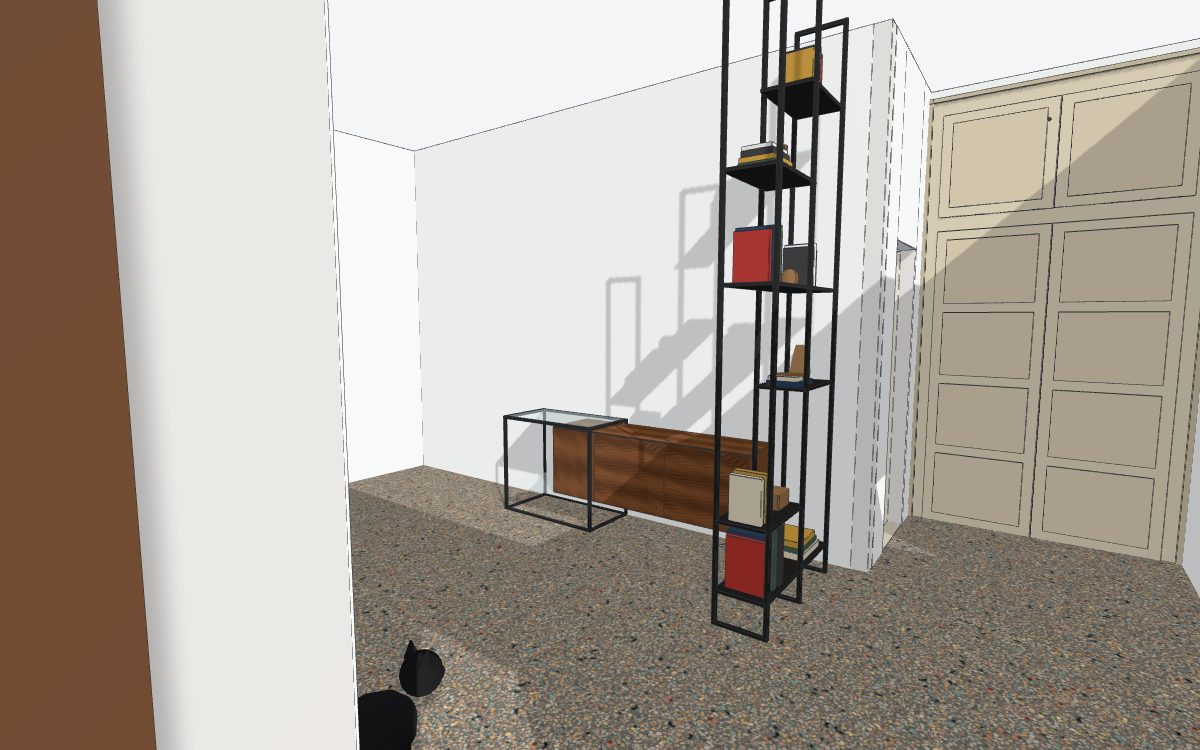
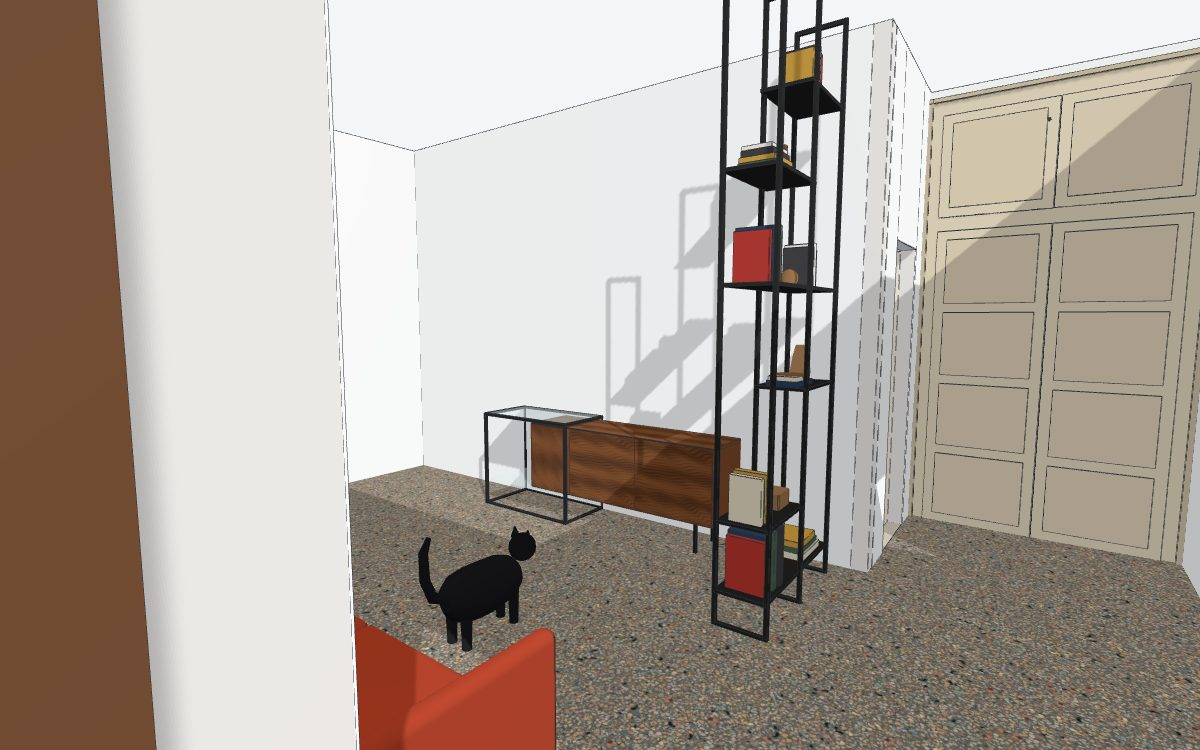
Add the Söderhamn sofa and the La Redoute sofa bed (key L opens it); Save positions also saves the active groups
Claude-Session: https://claude.ai/code/session_017Czcnh6xzZxgGSwco7M1Pu

Changed region(s): [[0.2775, 0.5213, 0.5242, 1.0], [0.6167, 0.5827, 0.6475, 0.644], [0.555, 0.7053, 0.5858, 0.736]]

diff --git a/public/viewer.html b/public/viewer.html
@@ -409,10 +409,14 @@ function moveKey(item) {
 const MV_STORE = 'moved:' + location.pathname;
 const moved = new Map();                                           // moveKey -> [dx, dy] inches
 let savedMoved = null;                                             // the published moved.json, as a JSON string of sorted entries
+let fileGroups = null, savedGroups = null;                         // moved.json "_groups": the groups saved with 'Save positions' (they replace the scene's defaults); savedGroups = their sorted JSON
+const liveGroups = () => JSON.stringify([...enabledGroups].sort());
 const mvJSON = m => JSON.stringify(Object.fromEntries([...m].map(([k, v]) => [k, v.map(x => Math.round(x * 100) / 100)]).sort((a, b) => a[0] < b[0] ? -1 : 1)), null, 1);
 async function loadMoved() {
   let file = {};
   try { const r = await fetch('moved.json?t=' + Date.now(), { cache: 'no-store' }); if (r.ok) file = await r.json(); } catch (e) {}
+  if (Array.isArray(file._groups)) fileGroups = file._groups;
+  delete file._groups;
   savedMoved = mvJSON(new Map(Object.entries(file)));
   let draft = null;
   try { draft = JSON.parse(localStorage.getItem(MV_STORE)); } catch (e) {}
@@ -441,7 +445,7 @@ function undoMove(back = true) {
 const SAVE_REPO = location.hostname.endsWith('.github.io') && [location.hostname.split('.')[0], location.pathname.split('/')[1]];   // owner, repo of a GitHub Pages site
 function showSave() {
   const b = document.getElementById('mvsave');
-  if (b) b.hidden = !SAVE_REPO || savedMoved === null || mvJSON(moved) === savedMoved;
+  if (b) b.hidden = !SAVE_REPO || savedMoved === null || (mvJSON(moved) === savedMoved && (savedGroups === null || liveGroups() === savedGroups));
   const u = document.getElementById('mvundo');
   if (u) u.disabled = !mvUndo.length;
   const r = document.getElementById('mvredo');
@@ -455,7 +459,8 @@ async function publishMoved() {
   if (!tok) return;
   const api = `https://api.github.com/repos/${owner}/${repo}/contents/projects/${id}/moved.json`;
   const h = { Authorization: 'Bearer ' + tok.trim(), Accept: 'application/vnd.github+json' };
-  const btn = document.getElementById('mvsave'), body = mvJSON(moved) + '\n';
+  const btn = document.getElementById('mvsave'), groupsNow = [...enabledGroups].sort();
+  const body = JSON.stringify(Object.assign(JSON.parse(mvJSON(moved)), { _groups: groupsNow }), null, 1) + '\n';   // positions + the groups switched on now
   btn.disabled = true;
   try {
     const cur = await fetch(api + '?ref=main', { headers: h });
@@ -465,7 +470,7 @@ async function publishMoved() {
       content: btoa(String.fromCharCode(...new TextEncoder().encode(body))) }) });
     if (!r.ok) throw new Error(String(r.status));
     try { localStorage.setItem('ghToken', tok.trim()); } catch (e) {}
-    savedMoved = mvJSON(moved);
+    savedMoved = mvJSON(moved); savedGroups = JSON.stringify(groupsNow);
     showSave();
     alert(t('v.mvsave.ok'));
   } catch (e) {
@@ -552,7 +557,12 @@ async function load() {
     const res = await fetch('scene.json?t=' + Date.now(), { cache: 'no-store' });
     const data = await res.json();
     normalizeRemoved(data);
-    if (!groupsInit) { groupsInit = true; if (!new URLSearchParams(location.search).has('g')) for (const g of data.groups || []) if (g.on) enabledGroups.add(g.id); }   // default-on groups ("on": true in scene.json) only when the URL has no ?g
+    if (!groupsInit) {                                                 // first load: groups saved with 'Save positions' (moved.json "_groups"), else the scene's defaults ("on": true); a ?g in the URL wins
+      groupsInit = true;
+      const start = fileGroups || (data.groups || []).filter(g => g.on).map(g => g.id);
+      if (!new URLSearchParams(location.search).has('g')) for (const id of start) enabledGroups.add(id);
+      savedGroups = JSON.stringify([...start].sort()); showSave();
+    }   // default-on groups ("on": true in scene.json) only when the URL has no ?g
     current = data;
     build(data);
     if (firstLoad) { firstLoad = false; applyInitialView(data); if (new URLSearchParams(location.search).has('fp')) enterFP(); if (new URLSearchParams(location.search).has('rt')) rtOn(); if (new URLSearchParams(location.search).has('ao')) aoOn(); }   // later reloads keep your orbit
@@ -1004,7 +1014,7 @@ function refreshDims() {
 const groupsEl = document.getElementById('groups'), gbtn = document.getElementById('gbtn');
 function computeGroupDefs(data) {
   const defs = new Map();
-  for (const g of data.groups || []) defs.set(g.id, { id: g.id, label: g.label || g.id, cat: g.cat || t('g.other'), variant: g.variant || null, skipAll: !!g.skipAll });
+  for (const g of data.groups || []) defs.set(g.id, { id: g.id, label: g.label || g.id, cat: g.cat || t('g.other'), variant: g.variant || null, skipAll: !!g.skipAll, alt: g.alt || null });
   for (const it of data.items) for (const id of [].concat(it.g || [])) if (!defs.has(id)) defs.set(id, { id, label: id, cat: t('g.other'), variant: null });
   for (const L of data.lights || []) for (const id of [].concat(L.g || [])) if (!defs.has(id)) defs.set(id, { id, label: id, cat: t('g.other'), variant: null });   // a light's group needs a checkbox too
   return [...defs.values()];
@@ -1030,6 +1040,7 @@ function groupsChanged() {
   selected = null;
   if (current) { build(current); refreshDims(); }
   renderGroups(current);
+  showSave();
 }
 let collapsedCats = new Set();                            // categories folded in the Groups panel (remembered per browser)
 try { collapsedCats = new Set(JSON.parse(localStorage.getItem('collapsedCats') || '[]')); } catch (e) {}
@@ -1188,6 +1199,20 @@ const endDrag = () => { clearTimeout(mvTimer); mvTimer = null; if (drag) {
 renderer.domElement.addEventListener('pointerup', endDrag);
 renderer.domElement.addEventListener('pointercancel', endDrag);
 addEventListener('keydown', e => { if (e.key === 'Escape' && mvKey) setMv(null); });
+// Key L: the selected piece (double click / long press, or a click that dimensions it) switches to its alternative
+// state: a group with "alt": "<other group>" (e.g. a sofa bed closed <-> open). Both states share the item path and
+// first word, so they share the moved offset and stay selected.
+function toggleAlt() {
+  if (!current) return;
+  const names = new Set(selected ? [selected] : []);
+  if (mvKey) for (const o of model.children) if (o.isMesh && o.userData.mv === mvKey) names.add(o.name);
+  const it = current.items.find(i => i.g && names.has(i.n));
+  const def = it && [].concat(it.g).map(id => groupDefs.find(d => d.id === id)).find(d => d && d.alt && enabledGroups.has(d.id));
+  if (!def) return;
+  enabledGroups.delete(def.id);
+  setGroup(def.alt, true);
+  setMv(moveKey(it));
+}
 document.getElementById('mvsave').onclick = publishMoved;
 document.getElementById('mvundo').onclick = () => undoMove(true);
 document.getElementById('mvredo').onclick = () => undoMove(false);
@@ -1353,6 +1378,7 @@ addEventListener('keydown', e => {
   if (e.key === 'p' || e.key === 'P') return document.getElementById('snap').click();
   if (e.key === 'u' || e.key === 'U') return document.getElementById('unit').click();
   if (e.key === 'g' || e.key === 'G') return gbtn.click();
+  if (e.key === 'l' || e.key === 'L') return toggleAlt();
   const i = Number(e.key) - 1;
   if (i >= 0 && i < PRESETS.length && !e.metaKey && !e.ctrlKey) runPreset(i);
 });

diff --git a/projects/casa-poggi/house.js b/projects/casa-poggi/house.js
@@ -3,7 +3,7 @@
 // Source: floor plan PDF "Planimetria_Casa_Poggi_Milano_modificata" (stato di fatto). "measured" = printed on the drawing, "estimate" = guessed.
 // Basic shell only: walls, openings, floor, balconies. No furniture, no materials yet (neutral colours).
 const path = require('path');
-const kit = require('../../scripts/scene-kit').createScene({ defaultOn: ['porte', 'armadio', 'porta-bagno', 'pittura', 'condizionatore', 'split-camera', 'lampada-terra', 'gatto', 'libreria', 'credenza-zoom', 'porta-camera', 'pavimento-terrazzo'] });
+const kit = require('../../scripts/scene-kit').createScene({ defaultOn: ['porte', 'armadio', 'porta-bagno', 'pittura', 'condizionatore', 'split-camera', 'lampada-terra', 'gatto', 'libreria', 'divano-soderhamn', 'credenza-zoom', 'porta-camera', 'pavimento-terrazzo'] });
 const { box, wall, slab, tube, rbox, group, defGroup, light } = kit;
 
 // ---------- dimensions (cm) ----------
@@ -328,6 +328,62 @@ const balcony = (n, x0, x1, y0, y1, side) => {
   const WT = { url: 'textures/noce-venato.jpg', tile: kit.inch(60) };
   kit.items.filter(i => /Credenza_Mobile_(Anta|Montante|Corpo)/.test(i.n)).forEach(i => { i.tex = { ...WT, face: '-x' }; });
   kit.items.filter(i => /Credenza_Mobile_Top/.test(i.n)).forEach(i => { i.tex = { ...WT, face: '+z' }; });
+}
+
+// ---------- sofas on the soggiorno west wall (back against the wall, centred on the solid stretch of wall) ----------
+// local frame: u along the wall (world y = Y0 + u), v from the wall face (world x = v); variant 'divano' = one sofa at a time
+{ const WALL0 = YS0, WALL1 = YK0 - TK, YC = (WALL0 + WALL1) / 2;
+  const sofa = (Y0) => ({
+    B: (n, c, u0, u1, v0, v1, z0, z1) => box(n, c, v0, Y0 + u0, z0, v1, Y0 + u1, z1),
+    R: (n, c, u0, u1, v0, v1, z0, z1, r, top, bot = 0) => rbox(n, c, [v0, Y0 + u0, z0, v1, Y0 + u1, z1], r, top, bot),
+    T: (n, c, pts, rr) => tube(n, c, pts.map(([u, v, z]) => [v, Y0 + u, z]), rr, 12) });
+
+  // IKEA Söderhamn 3-seat, Alhamn orange-red velvet: 198 x 99 x 83 cm, seat 40, armrest 69, legs 14 (product drawing)
+  // thin armrest panels, 2 seat cushions, 2 back + 2 lumbar cushions, chrome legs   cushion sizes estimate (from the photo)
+  { const W = 198, { B, R, T } = sofa(YC - W / 2), C = [170, 60, 34, 255], C2 = [152, 50, 28, 255], CH = [205, 208, 212, 255];
+    defGroup('divano-soderhamn', 'Divano IKEA Söderhamn 3 posti (Alhamn arancione-rosso)', 'Arredi', 'divano');
+    group('divano-soderhamn', () => {
+      for (const [u, v, s] of [[12, 10, 'Sx'], [W - 12, 10, 'Dx'], [12, 89, 'Sx'], [W - 12, 89, 'Dx']])
+        T(`/Divano_Soderhamn/Divano_Gamba_${s}_${v < 50 ? 'Retro' : 'Fronte'}`, CH, [[u, v, 0], [u, v, 14]], [1.1, 1.1]);
+      R('/Divano_Soderhamn/Divano_Base', C2, 6, W - 6, 2, 97, 14, 30, 2, 2);
+      R('/Divano_Soderhamn/Divano_Bracciolo_Sx', C, 0, 7, 0, 99, 16, 69, 3, 3, 2);
+      R('/Divano_Soderhamn/Divano_Bracciolo_Dx', C, W - 7, W, 0, 99, 16, 69, 3, 3, 2);
+      R('/Divano_Soderhamn/Divano_Schienale', C2, 7, W - 7, 0, 12, 30, 62, 2, 3);
+      R('/Divano_Soderhamn/Divano_Seduta_Sx', C, 7, W / 2, 14, 99, 30, 40, 4, 4);
+      R('/Divano_Soderhamn/Divano_Seduta_Dx', C, W / 2, W - 7, 14, 99, 30, 40, 4, 4);
+      R('/Divano_Soderhamn/Divano_Cuscino_Sx', C, 12, W / 2 - 2, 10, 28, 40, 83, 6, 7);
+      R('/Divano_Soderhamn/Divano_Cuscino_Dx', C, W / 2 + 2, W - 12, 10, 28, 40, 83, 6, 7);
+      R('/Divano_Soderhamn/Divano_Lombare_Sx', C2, 27, 75, 28, 39, 42, 64, 4, 5);
+      R('/Divano_Soderhamn/Divano_Lombare_Dx', C2, W - 75, W - 27, 28, 39, 42, 64, 4, 5);
+    });
+  }
+
+  // La Redoute sofa bed, cinnamon corduroy, 168 x 100 x 82 cm, seat 49 (product drawing); open = a 168 x 200 bed.
+  // Two groups, closed and open, with "alt" pointing at each other: select the sofa and press L to switch. Both use the
+  // same path and first word ("Divano"), so they share the moved offset   open-bed construction estimate (no photo available here)
+  { const W = 168, { B, R } = sofa(YC - W / 2), C = [166, 96, 56, 255], C2 = [150, 84, 48, 255], FT = [30, 28, 26, 255];
+    const feet = (n, d) => { for (const [u, v] of [[8, 8], [W - 8, 8], [8, d - 8], [W - 8, d - 8]]) B(`/Divano_Redoute/Divano_${n}_Piede_${u < W / 2 ? 'Sx' : 'Dx'}${v < 50 ? 'Retro' : 'Fronte'}`, FT, u - 2.5, u + 2.5, v - 2.5, v + 2.5, 0, 5); };
+    defGroup('divano-redoute', 'Divano letto La Redoute 168 (cannella) – chiuso', 'Arredi', 'divano', { alt: 'divano-redoute-aperto' });
+    defGroup('divano-redoute-aperto', 'Divano letto La Redoute 168 (cannella) – aperto', 'Arredi', 'divano', { alt: 'divano-redoute' });
+    group('divano-redoute', () => {
+      feet('Chiuso', 100);
+      R('/Divano_Redoute/Divano_Base', C2, 18, W - 18, 0, 98, 5, 38, 5, 4);
+      R('/Divano_Redoute/Divano_Bracciolo_Sx', C, 0, 20, 0, 100, 5, 62, 8, 9, 4);
+      R('/Divano_Redoute/Divano_Bracciolo_Dx', C, W - 20, W, 0, 100, 5, 62, 8, 9, 4);
+      R('/Divano_Redoute/Divano_Schienale', C2, 18, W - 18, 0, 18, 5, 60, 4, 6);
+      R('/Divano_Redoute/Divano_Seduta_Sx', C, 20, W / 2, 16, 100, 36, 49, 6, 6);
+      R('/Divano_Redoute/Divano_Seduta_Dx', C, W / 2, W - 20, 16, 100, 36, 49, 6, 6);
+      R('/Divano_Redoute/Divano_Cuscino_Sx', C, 21, W / 2 - 1, 6, 32, 46, 82, 8, 9);
+      R('/Divano_Redoute/Divano_Cuscino_Dx', C, W / 2 + 1, W - 21, 6, 32, 46, 82, 8, 9);
+    });
+    group('divano-redoute-aperto', () => {
+      feet('Aperto', 200);
+      R('/Divano_Redoute/Divano_Telaio_Letto', C2, 0, W, 0, 200, 5, 30, 4, 3);
+      R('/Divano_Redoute/Divano_Materasso', C, 1, W - 1, 1, 199, 30, 45, 6, 6);
+      R('/Divano_Redoute/Divano_Guanciale_Sx', [236, 228, 214, 255], 10, W / 2 - 4, 6, 46, 45, 55, 6, 5);
+      R('/Divano_Redoute/Divano_Guanciale_Dx', [236, 228, 214, 255], W / 2 + 4, W - 10, 6, 46, 45, 55, 6, 5);
+    });
+  }
 }
 
 // Mogg Costantina Opal floor lamp (Nava + Arosio): a totem of 7 opal glass elements (cylinders, cones, double cones)

diff --git a/scripts/scene-kit.js b/scripts/scene-kit.js
@@ -40,9 +40,9 @@ function createScene({ defaultOn = [] } = {}) {
   };
 
   // Switchable groups (all off in the viewer unless in `defaultOn`; items without a group are always drawn).
-  //   defGroup(id, label, category, [variant], [{fixed: true}])  -> groups with the same `variant` are mutually exclusive; fixed = can't be moved in the viewer
+  //   defGroup(id, label, category, [variant], [{fixed: true, alt: '<group id>'}])  -> groups with the same `variant` are mutually exclusive; fixed = can't be moved in the viewer; alt = the group key L switches the selected piece to (e.g. a sofa bed open)
   //   group(id, () => { ...box()/tube()/slab()... })  -> everything drawn inside takes the group `id`
-  const defGroup = (id, label, cat, variant, opt = {}) => GROUPS.push(Object.assign({ id, label, cat }, variant ? { variant } : {}, defaultOn.includes(id) ? { on: true } : {}, opt.fixed ? { fixed: true } : {}));
+  const defGroup = (id, label, cat, variant, opt = {}) => GROUPS.push(Object.assign({ id, label, cat }, variant ? { variant } : {}, defaultOn.includes(id) ? { on: true } : {}, opt.fixed ? { fixed: true } : {}, opt.alt ? { alt: opt.alt } : {}));
   const group = (id, fn) => { const from = items.length; fn(); for (let k = from; k < items.length; k++) items[k].g = id; };
   // Night-mode light source (position in cm; the rest as in the schema: d, a, pen, c, i, r, sh, g)
   const light = d => lights.push(Object.assign({ t: 'spot' }, d, { p: d.p.map(inch) }));   // pass g: '<group id>' to tie the light to a group (no default)

diff --git a/CLAUDE.md b/CLAUDE.md
@@ -123,7 +123,8 @@ Optional item keys: `"ne": 1` draws no outline (smooth glass, stacked lathe shap
 - **First person** button (key `F`, `Esc` exits; `?fp=1` starts in it): walk through the model at 66" eye height, fov 70. `W/A/S/D` or arrows move/strafe (80"/s, Shift 240"/s), `Q/E` turn left/right, click on the canvas to start mouse-look (pointer lock, no button held), click again to stop (pitch limited; Esc releases the lock). The white ceiling comes from `ceiling: {o:[[x,y]...], z:[z0,z1]}` in `scene.json` (inches; `kit.ceiling` reuses the floor polygon at the wall height): a flat slab outside `model`, visible only in FPV, no shadow casting, slightly emissive in daylight so it stays white; the path tracer rebuilds its scene when entering/leaving FPV. Spawn = `spawn: {p:[x,y], yaw}` in `scene.json` (inches, yaw degrees from +X ccw; `kit.spawn`, put it just inside the entrance door); without it, near the min corner looking at the centre. Collision = circle (6") against `box`/`rbox`/`slab` items with z between 8" and 62" (built with the meshes, so hidden groups, the "Removed elements" group included, do not block), axis-separated sliding; if the start is already inside something you can walk out. Exiting restores the orbit camera. **Pitfall**: `OrbitControls.update()` still re-aims the camera at its target when `enabled=false`, so the render loop skips it in FPV. `window.fpState()` exposes `{x,y,yaw,pitch}` for headless tests (load takes ~8 s under swiftshader, wait for the status line before reading it).
 - **Groups** button (key `G`, shown only when the scene has groups; fixed at the bottom-left, outside the top bar, and its panel opens right above it): a panel (desktop: fixed 380 px wide (less on a narrow window), long labels wrap under the text; phones: full width) with one checkbox per group, listed by category; **everything is off by default**, except groups with `"on": true` in `scene.json` `groups` (`createScene({ defaultOn })` in a generator), applied on first load only when the URL has no `?g`. An item with `"g": "id"` (or a list of ids) is drawn only when one of its groups is on; items without `g` are always drawn. Groups sharing the same `variant` are mutually exclusive (turning one on turns the other off), others are independent. "All on" picks the first group of each variant set. The enabled ids live in the URL (`?g=id1,id2`), so a refresh keeps them. Ids used by items but missing from `groups` appear under "Other". Each category title is a collapsible header (`›` closed / `v` open, click to toggle; closed headers show how many of their groups are on; the state is kept in `localStorage`, not in the URL). Off groups aren't built (hover, dims and click ignore them); the status line still counts all items.
 - **Removed elements** (a group, no dedicated button or key any more): on load the viewer gives every item whose name contains `Rimosso` or `Removed` (walls to be demolished) and that has no `g` the implicit group `removed` ("Removed elements", category "Demolition"), added to `groups` if the scene does not define it. It is off by default ("after the works" state), shown by ticking it (`?g=removed` bookmarks it), and **left out of "All on"** (`skipAll`: the demolished walls would overlap the new furniture). Name demolition candidates `..._Removed` (new projects; `..._Rimosso` also works) and colour them differently in the scene; an item with its own `g` follows that group instead. The old `Rimossi` button / key `R` is gone.
-- **Moving furniture**: double click or long press (500 ms) on an item with a group selects its piece (path + first word + first number of the leaf: `/Kitchen/Stool_Leg_1_2` -> `/Kitchen/Stool#1`; groups with `"fixed": true`, `defGroup(..., variant, {fixed: true})`, never move), drag slides it on its floor plane, stopping against the ungrouped shell (boxes and slab polygons, glass and `Removed` excluded; 2" steps so a fast drag can't tunnel). Every drag that changes a position is pushed on an undo history: two arrow icon buttons in the bar, back `#mvundo` and forward `#mvredo` (always visible, also on phones, disabled when there is nothing to undo / redo; no keyboard shortcut, on request; a new drag clears the redo list; last 50 undo steps kept in localStorage `mvundo:<path>` with the draft). Leaf names of one piece must not contain different numbers (use letters: `Part_a`, `Part_b`), or each numbered part moves on its own. Offsets live in `projects/<id>/moved.json` (`{key: [dx, dy]}` inches, served and copied by the build), unsaved moves are a localStorage draft; on a `*.github.io` site the `Save positions` button commits `moved.json` through the GitHub contents API with a token the owner pastes once (kept in localStorage), which redeploys the site. `window.mvState(name)` is the test hook. Verified with mocked GitHub routes, not against the real API.
+- **Moving furniture**: double click or long press (500 ms) on an item with a group selects its piece (path + first word + first number of the leaf: `/Kitchen/Stool_Leg_1_2` -> `/Kitchen/Stool#1`; groups with `"fixed": true`, `defGroup(..., variant, {fixed: true})`, never move), drag slides it on its floor plane, stopping against the ungrouped shell (boxes and slab polygons, glass and `Removed` excluded; 2" steps so a fast drag can't tunnel). Every drag that changes a position is pushed on an undo history: two arrow icon buttons in the bar, back `#mvundo` and forward `#mvredo` (always visible, also on phones, disabled when there is nothing to undo / redo; no keyboard shortcut, on request; a new drag clears the redo list; last 50 undo steps kept in localStorage `mvundo:<path>` with the draft). Leaf names of one piece must not contain different numbers (use letters: `Part_a`, `Part_b`), or each numbered part moves on its own. Offsets live in `projects/<id>/moved.json` (`{key: [dx, dy]}` inches, served and copied by the build), unsaved moves are a localStorage draft; on a `*.github.io` site the `Save positions` button commits `moved.json` through the GitHub contents API with a token the owner pastes once (kept in localStorage), which redeploys the site. `window.mvState(name)` is the test hook. `Save positions` also writes the groups switched on at that moment as `"_groups": [ids]` in `moved.json`; on the next load (no `?g`) they replace the scene's `defaultOn` (user: they pick the active groups on the site, not in the generator), and the button also shows when only the groups changed. Verified with mocked GitHub routes, not against the real API.
+- **Alternative state of a piece, key `L`** (e.g. a sofa bed closed / open): two groups in the same `variant`, each with `alt: '<other id>'` (`defGroup(id, label, cat, variant, {alt})`); select the piece (click or double click) and press L to swap. Give both states the same item path and first word (`/Sofa_A/Sofa_...`) so they share the moved offset and the selection.
 - Live status dot (green = SSE connected) + object count + last-reload time.
 - Reloads rebuild the meshes but keep the orbit camera, the selection and the dimensions.
 
